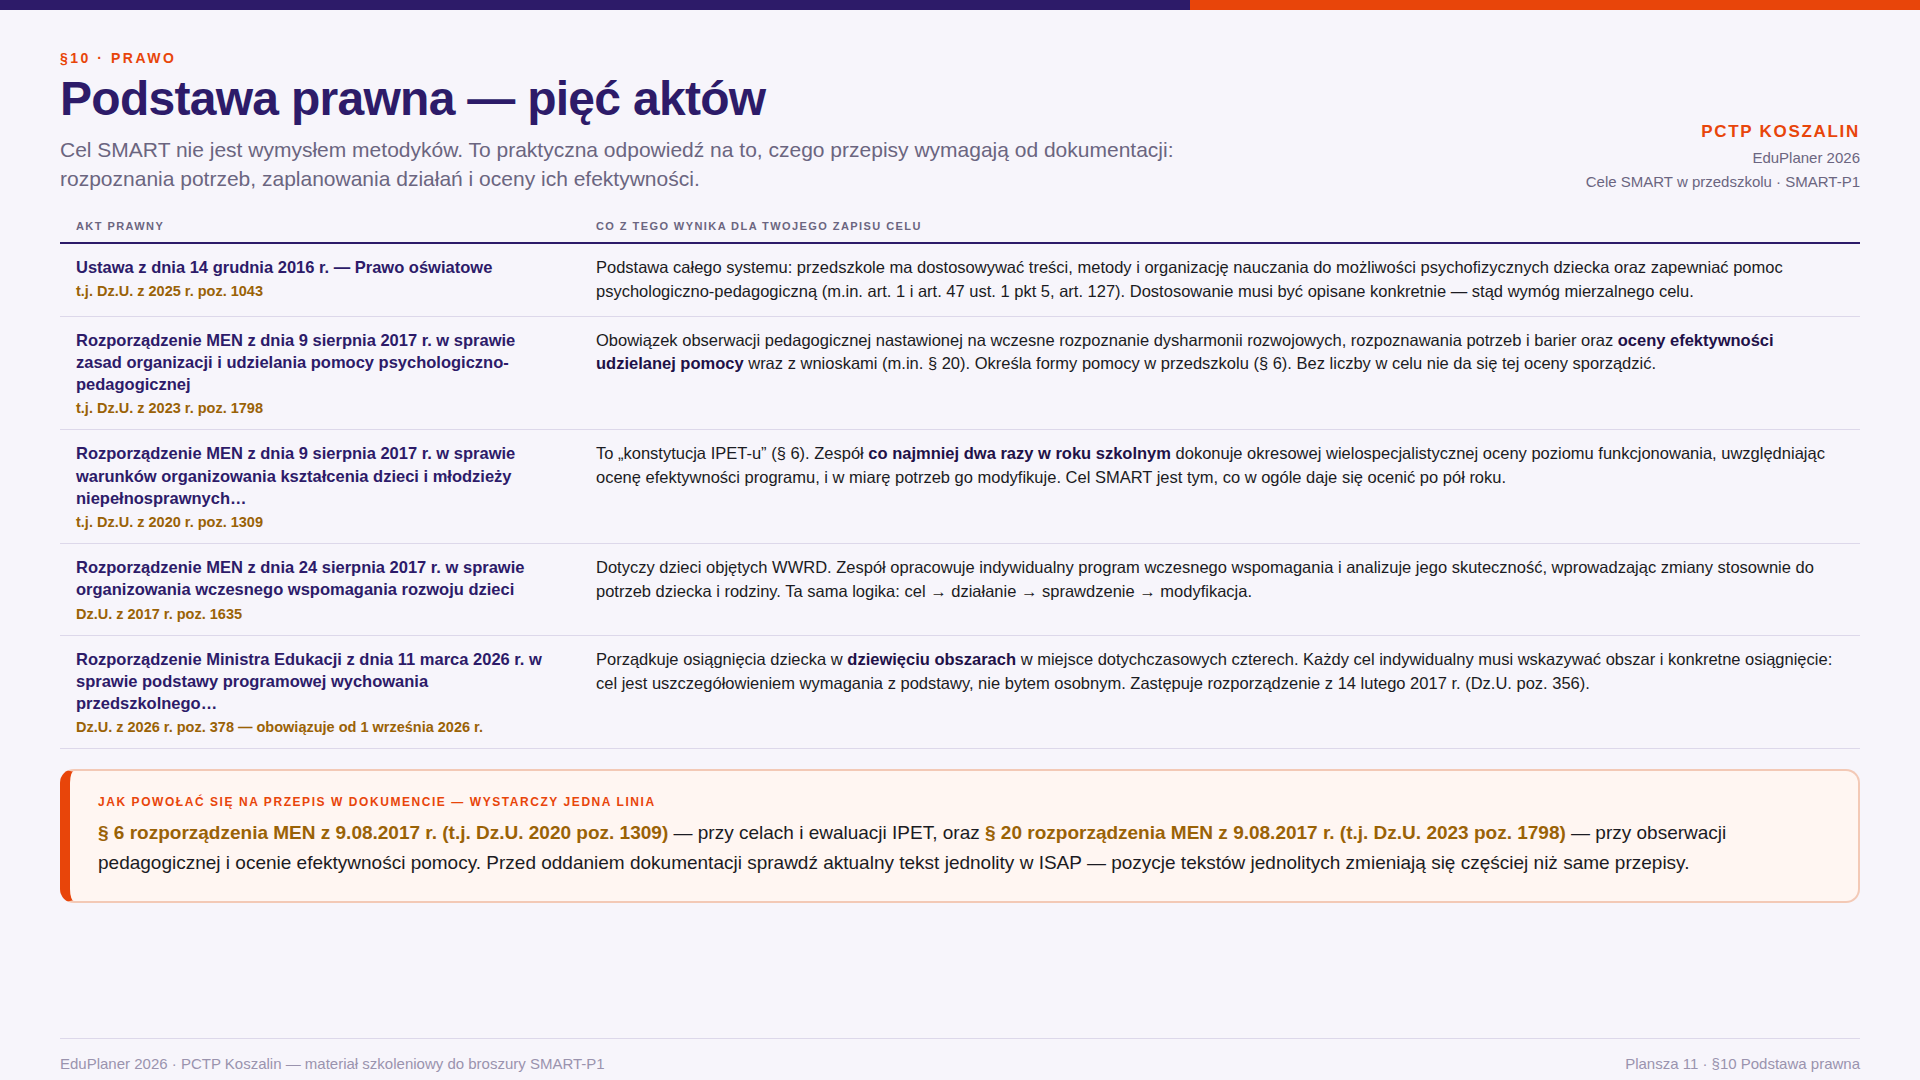
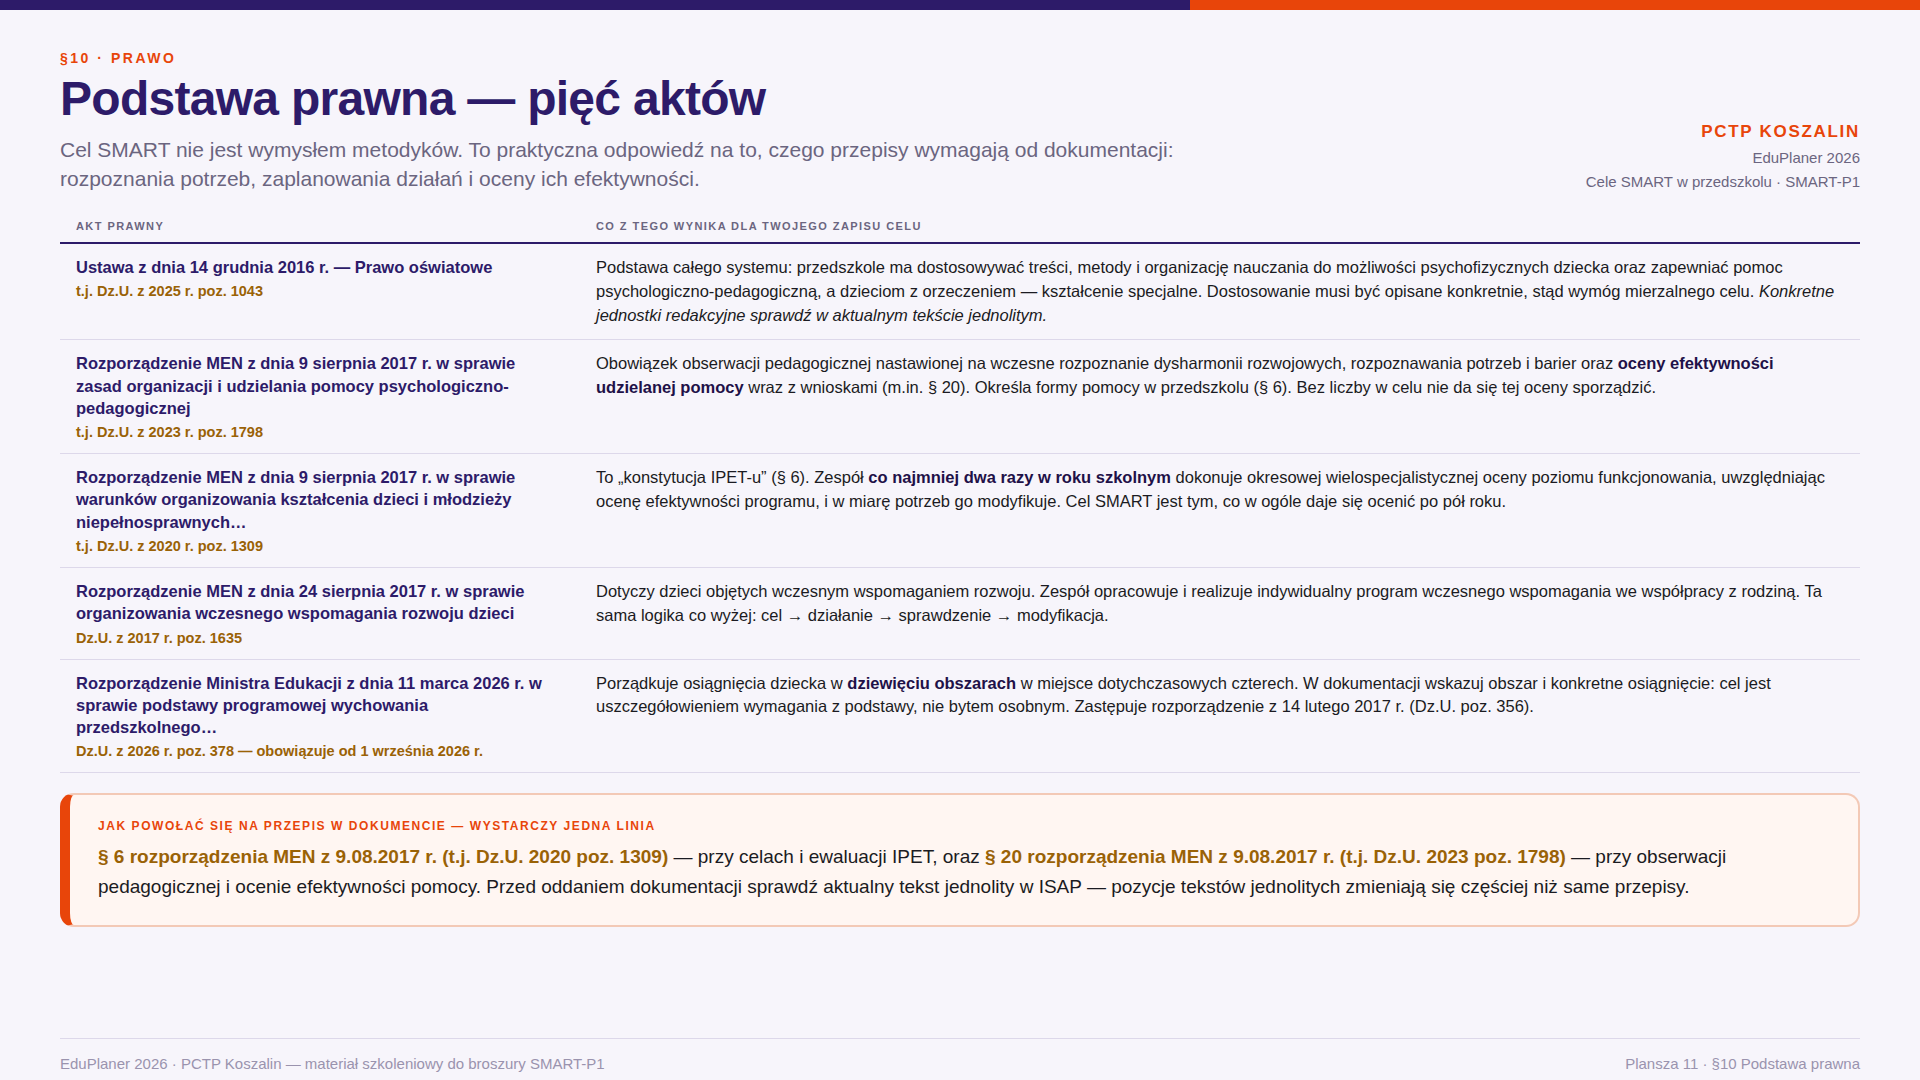
Zostaw w materiale tylko zweryfikowane powołania z numerem
Zasada, którą materiał teraz trzyma: powołanie z numerem jednostki redakcyjnej
musi być sprawdzone, a to, czego sprawdzić się nie da, jest omówione ogólnie —
przez nazwę aktu i treść obowiązku, bez numeru.

Z planszy podstawy prawnej znikają art. 1, art. 47 ust. 1 pkt 5 i art. 127
Prawa oświatowego: przepisane z broszury, nieweryfikowalne w tej sesji (sieć nie
przepuszcza ISAP ani ELI). W ich miejsce jest opis tego, co z ustawy wynika, oraz
wskazówka, żeby jednostki redakcyjne sprawdzić w aktualnym tekście jednolitym.
Wiersz o wczesnym wspomaganiu rozwoju traci przypisanie do paragrafu, którego nie
potwierdzono. Poprawione też ostatnie „musi wskazywać" — to zalecenie
dokumentacyjne, nie nakaz przepisu.

Numery, które zostają, przeszły weryfikację: § 6, § 6 ust. 9, § 20, § 20 ust. 1
i § 20 ust. 9 rozporządzeń z 9.08.2017 r. oraz pozycje Dz.U. 2017 poz. 356,
2017 poz. 1635, 2020 poz. 1309, 2023 poz. 1798, 2025 poz. 1043, 2026 poz. 378.

Claude-Session: https://claude.ai/code/session_018WRro5h31bSWLV3XxCN4YU

diff --git a/materialy/cele-smart-w-przedszkolu/plansze/10_podstawa_prawna.html b/materialy/cele-smart-w-przedszkolu/plansze/10_podstawa_prawna.html
@@ -16,7 +16,7 @@ td.w b{color:var(--fiolet-cn)}
       <h1>Podstawa prawna — pięć aktów</h1>
       <div class="sub">Cel SMART nie jest wymysłem metodyków. To praktyczna odpowiedź na to, czego przepisy wymagają od dokumentacji: rozpoznania potrzeb, zaplanowania działań i oceny ich efektywności.</div>
     </div><div class="znak"><b>PCTP KOSZALIN</b>EduPlaner 2026<br>Cele SMART w przedszkolu · SMART-P1</div></div>
-  <div class="tresc"><table class="akty"><tr><th style="width:520px">Akt prawny</th><th>Co z tego wynika dla Twojego zapisu celu</th></tr><tr><td class="a"><b>Ustawa z dnia 14 grudnia 2016 r. — Prawo oświatowe</b><span>t.j. Dz.U. z 2025 r. poz. 1043</span></td><td class="w">Podstawa całego systemu: przedszkole ma dostosowywać treści, metody i organizację nauczania do możliwości psychofizycznych dziecka oraz zapewniać pomoc psychologiczno-pedagogiczną (m.in. art. 1 i art. 47 ust. 1 pkt 5, art. 127). Dostosowanie musi być opisane konkretnie — stąd wymóg mierzalnego celu.</td></tr><tr><td class="a"><b>Rozporządzenie MEN z dnia 9 sierpnia 2017 r. w sprawie zasad organizacji i udzielania pomocy psychologiczno-pedagogicznej</b><span>t.j. Dz.U. z 2023 r. poz. 1798</span></td><td class="w">Obowiązek obserwacji pedagogicznej nastawionej na wczesne rozpoznanie dysharmonii rozwojowych, rozpoznawania potrzeb i barier oraz <b>oceny efektywności udzielanej pomocy</b> wraz z wnioskami (m.in. § 20). Określa formy pomocy w przedszkolu (§ 6). Bez liczby w celu nie da się tej oceny sporządzić.</td></tr><tr><td class="a"><b>Rozporządzenie MEN z dnia 9 sierpnia 2017 r. w sprawie warunków organizowania kształcenia dzieci i młodzieży niepełnosprawnych…</b><span>t.j. Dz.U. z 2020 r. poz. 1309</span></td><td class="w">To „konstytucja IPET-u” (§ 6). Zespół <b>co najmniej dwa razy w roku szkolnym</b> dokonuje okresowej wielospecjalistycznej oceny poziomu funkcjonowania, uwzględniając ocenę efektywności programu, i w miarę potrzeb go modyfikuje. Cel SMART jest tym, co w ogóle daje się ocenić po pół roku.</td></tr><tr><td class="a"><b>Rozporządzenie MEN z dnia 24 sierpnia 2017 r. w sprawie organizowania wczesnego wspomagania rozwoju dzieci</b><span>Dz.U. z 2017 r. poz. 1635</span></td><td class="w">Dotyczy dzieci objętych WWRD. Zespół opracowuje indywidualny program wczesnego wspomagania i analizuje jego skuteczność, wprowadzając zmiany stosownie do potrzeb dziecka i rodziny. Ta sama logika: cel → działanie → sprawdzenie → modyfikacja.</td></tr><tr><td class="a"><b>Rozporządzenie Ministra Edukacji z dnia 11 marca 2026 r. w sprawie podstawy programowej wychowania przedszkolnego…</b><span>Dz.U. z 2026 r. poz. 378 — obowiązuje od 1 września 2026 r.</span></td><td class="w">Porządkuje osiągnięcia dziecka w <b>dziewięciu obszarach</b> w miejsce dotychczasowych czterech. Każdy cel indywidualny musi wskazywać obszar i konkretne osiągnięcie: cel jest uszczegółowieniem wymagania z podstawy, nie bytem osobnym. Zastępuje rozporządzenie z 14 lutego 2017 r. (Dz.U. poz. 356).</td></tr></table>
+  <div class="tresc"><table class="akty"><tr><th style="width:520px">Akt prawny</th><th>Co z tego wynika dla Twojego zapisu celu</th></tr><tr><td class="a"><b>Ustawa z dnia 14 grudnia 2016 r. — Prawo oświatowe</b><span>t.j. Dz.U. z 2025 r. poz. 1043</span></td><td class="w">Podstawa całego systemu: przedszkole ma dostosowywać treści, metody i organizację nauczania do możliwości psychofizycznych dziecka oraz zapewniać pomoc psychologiczno-pedagogiczną, a dzieciom z orzeczeniem — kształcenie specjalne. Dostosowanie musi być opisane konkretnie, stąd wymóg mierzalnego celu. <i>Konkretne jednostki redakcyjne sprawdź w aktualnym tekście jednolitym.</i></td></tr><tr><td class="a"><b>Rozporządzenie MEN z dnia 9 sierpnia 2017 r. w sprawie zasad organizacji i udzielania pomocy psychologiczno-pedagogicznej</b><span>t.j. Dz.U. z 2023 r. poz. 1798</span></td><td class="w">Obowiązek obserwacji pedagogicznej nastawionej na wczesne rozpoznanie dysharmonii rozwojowych, rozpoznawania potrzeb i barier oraz <b>oceny efektywności udzielanej pomocy</b> wraz z wnioskami (m.in. § 20). Określa formy pomocy w przedszkolu (§ 6). Bez liczby w celu nie da się tej oceny sporządzić.</td></tr><tr><td class="a"><b>Rozporządzenie MEN z dnia 9 sierpnia 2017 r. w sprawie warunków organizowania kształcenia dzieci i młodzieży niepełnosprawnych…</b><span>t.j. Dz.U. z 2020 r. poz. 1309</span></td><td class="w">To „konstytucja IPET-u” (§ 6). Zespół <b>co najmniej dwa razy w roku szkolnym</b> dokonuje okresowej wielospecjalistycznej oceny poziomu funkcjonowania, uwzględniając ocenę efektywności programu, i w miarę potrzeb go modyfikuje. Cel SMART jest tym, co w ogóle daje się ocenić po pół roku.</td></tr><tr><td class="a"><b>Rozporządzenie MEN z dnia 24 sierpnia 2017 r. w sprawie organizowania wczesnego wspomagania rozwoju dzieci</b><span>Dz.U. z 2017 r. poz. 1635</span></td><td class="w">Dotyczy dzieci objętych wczesnym wspomaganiem rozwoju. Zespół opracowuje i realizuje indywidualny program wczesnego wspomagania we współpracy z rodziną. Ta sama logika co wyżej: cel → działanie → sprawdzenie → modyfikacja.</td></tr><tr><td class="a"><b>Rozporządzenie Ministra Edukacji z dnia 11 marca 2026 r. w sprawie podstawy programowej wychowania przedszkolnego…</b><span>Dz.U. z 2026 r. poz. 378 — obowiązuje od 1 września 2026 r.</span></td><td class="w">Porządkuje osiągnięcia dziecka w <b>dziewięciu obszarach</b> w miejsce dotychczasowych czterech. W dokumentacji wskazuj obszar i konkretne osiągnięcie: cel jest uszczegółowieniem wymagania z podstawy, nie bytem osobnym. Zastępuje rozporządzenie z 14 lutego 2017 r. (Dz.U. poz. 356).</td></tr></table>
 <div class="pom-blok" style="margin-top:20px">
   <div class="et" style="color:var(--pomarancz)">Jak powołać się na przepis w dokumencie — wystarczy jedna linia</div>
   <p style="font-size:19px;line-height:1.55;margin-top:9px"><span class="pp">§ 6 rozporządzenia MEN z 9.08.2017 r. (t.j. Dz.U. 2020 poz. 1309)</span> — przy celach i ewaluacji IPET, oraz <span class="pp">§ 20 rozporządzenia MEN z 9.08.2017 r. (t.j. Dz.U. 2023 poz. 1798)</span> — przy obserwacji pedagogicznej i ocenie efektywności pomocy. Przed oddaniem dokumentacji sprawdź aktualny tekst jednolity w ISAP — pozycje tekstów jednolitych zmieniają się częściej niż same przepisy.</p>

diff --git a/materialy/cele-smart-w-przedszkolu/plansze/zbuduj_plansze.py b/materialy/cele-smart-w-przedszkolu/plansze/zbuduj_plansze.py
@@ -433,15 +433,15 @@ td.db i{font-weight:400;color:var(--mute)}
 
 # ------------------------------------------------- 10 · §10 PODSTAWA PRAWNA
 AKTY = [("Ustawa z dnia 14 grudnia 2016 r. — Prawo oświatowe","t.j. Dz.U. z 2025 r. poz. 1043",
-  "Podstawa całego systemu: przedszkole ma dostosowywać treści, metody i organizację nauczania do możliwości psychofizycznych dziecka oraz zapewniać pomoc psychologiczno-pedagogiczną (m.in. art. 1 i art. 47 ust. 1 pkt 5, art. 127). Dostosowanie musi być opisane konkretnie — stąd wymóg mierzalnego celu."),
+  "Podstawa całego systemu: przedszkole ma dostosowywać treści, metody i organizację nauczania do możliwości psychofizycznych dziecka oraz zapewniać pomoc psychologiczno-pedagogiczną, a dzieciom z orzeczeniem — kształcenie specjalne. Dostosowanie musi być opisane konkretnie, stąd wymóg mierzalnego celu. <i>Konkretne jednostki redakcyjne sprawdź w aktualnym tekście jednolitym.</i>"),
  ("Rozporządzenie MEN z dnia 9 sierpnia 2017 r. w sprawie zasad organizacji i udzielania pomocy psychologiczno-pedagogicznej","t.j. Dz.U. z 2023 r. poz. 1798",
   "Obowiązek obserwacji pedagogicznej nastawionej na wczesne rozpoznanie dysharmonii rozwojowych, rozpoznawania potrzeb i barier oraz <b>oceny efektywności udzielanej pomocy</b> wraz z wnioskami (m.in. § 20). Określa formy pomocy w przedszkolu (§ 6). Bez liczby w celu nie da się tej oceny sporządzić."),
  ("Rozporządzenie MEN z dnia 9 sierpnia 2017 r. w sprawie warunków organizowania kształcenia dzieci i młodzieży niepełnosprawnych…","t.j. Dz.U. z 2020 r. poz. 1309",
   "To „konstytucja IPET-u” (§ 6). Zespół <b>co najmniej dwa razy w roku szkolnym</b> dokonuje okresowej wielospecjalistycznej oceny poziomu funkcjonowania, uwzględniając ocenę efektywności programu, i w miarę potrzeb go modyfikuje. Cel SMART jest tym, co w ogóle daje się ocenić po pół roku."),
  ("Rozporządzenie MEN z dnia 24 sierpnia 2017 r. w sprawie organizowania wczesnego wspomagania rozwoju dzieci","Dz.U. z 2017 r. poz. 1635",
-  "Dotyczy dzieci objętych WWRD. Zespół opracowuje indywidualny program wczesnego wspomagania i analizuje jego skuteczność, wprowadzając zmiany stosownie do potrzeb dziecka i rodziny. Ta sama logika: cel → działanie → sprawdzenie → modyfikacja."),
+  "Dotyczy dzieci objętych wczesnym wspomaganiem rozwoju. Zespół opracowuje i realizuje indywidualny program wczesnego wspomagania we współpracy z rodziną. Ta sama logika co wyżej: cel → działanie → sprawdzenie → modyfikacja."),
  ("Rozporządzenie Ministra Edukacji z dnia 11 marca 2026 r. w sprawie podstawy programowej wychowania przedszkolnego…","Dz.U. z 2026 r. poz. 378 — obowiązuje od 1 września 2026 r.",
-  "Porządkuje osiągnięcia dziecka w <b>dziewięciu obszarach</b> w miejsce dotychczasowych czterech. Każdy cel indywidualny musi wskazywać obszar i konkretne osiągnięcie: cel jest uszczegółowieniem wymagania z podstawy, nie bytem osobnym. Zastępuje rozporządzenie z 14 lutego 2017 r. (Dz.U. poz. 356).")]
+  "Porządkuje osiągnięcia dziecka w <b>dziewięciu obszarach</b> w miejsce dotychczasowych czterech. W dokumentacji wskazuj obszar i konkretne osiągnięcie: cel jest uszczegółowieniem wymagania z podstawy, nie bytem osobnym. Zastępuje rozporządzenie z 14 lutego 2017 r. (Dz.U. poz. 356).")]
 akt = "".join(f'<tr><td class="a"><b>{n}</b><span>{s}</span></td><td class="w">{o}</td></tr>' for n,s,o in AKTY)
 dodaj("10_podstawa_prawna", slajd("10", "Podstawa prawna — pięć aktów", "§10 · Prawo",
   "Cel SMART nie jest wymysłem metodyków. To praktyczna odpowiedź na to, czego przepisy wymagają od dokumentacji: rozpoznania potrzeb, zaplanowania działań i oceny ich efektywności.",

diff --git a/materialy/cele-smart-w-przedszkolu/zrodla.md b/materialy/cele-smart-w-przedszkolu/zrodla.md
@@ -94,9 +94,21 @@ Zapisuję je razem z poprawką, żeby nie wróciły przy kolejnej redakcji.
 | 3 | „Cel **musi** wskazać obszar oraz numer osiągnięcia z załącznika" | To zalecenie dokumentacyjne z broszury, a nie literalny nakaz przepisu — „musi" sugeruje obowiązek prawny | „**W dokumentacji wskazuj** obszar oraz numer osiągnięcia … To ten numer obroni cel przed zespołem i organem nadzoru" |
 | 4 | „Pierwszy przegląd **wypadnie w styczniu**" | Przepis nie wyznacza stycznia — mówi o „co najmniej dwóch razach w roku szkolnym" | „Pierwszy przegląd **wypada zwykle na przełomie semestrów**" |
 
-Do sprawdzenia przy okazji, przepisane z broszury i nieweryfikowane w tej sesji:
-powołania na **art. 1, art. 47 ust. 1 pkt 5 i art. 127** Prawa oświatowego (plansza §10)
-oraz dokładny paragraf rozporządzenia o WWRD.
+### Zasada: czego nie potwierdziłem, tego nie cytuję z numerem
+
+Materiał trzyma się reguły — **każde powołanie z numerem jednostki redakcyjnej musi być
+zweryfikowane; reszta jest omówiona ogólnie, przez nazwę aktu i treść obowiązku.**
+Dlatego z planszy §10 usunięte zostały powołania na **art. 1, art. 47 ust. 1 pkt 5 i art. 127**
+Prawa oświatowego, przepisane z broszury i niesprawdzone w tej sesji. W ich miejsce jest opis
+tego, co z ustawy wynika, plus zdanie: „konkretne jednostki redakcyjne sprawdź w aktualnym
+tekście jednolitym".
+
+Tak samo wiersz o wczesnym wspomaganiu rozwoju: został opis zadania zespołu bez przypisywania
+mu paragrafu, którego nie udało się zweryfikować.
+
+Numery, które **zostają** w materiale, bo przeszły weryfikację: § 6 i § 6 ust. 9 oraz § 20,
+§ 20 ust. 1 i § 20 ust. 9 obu rozporządzeń z 9 sierpnia 2017 r., a także pozycje Dz.U.
+2017 poz. 356, 2017 poz. 1635, 2020 poz. 1309, 2023 poz. 1798, 2025 poz. 1043 i 2026 poz. 378.
 
 ## Kontrola przepisów — co zostało zweryfikowane u źródła
 
